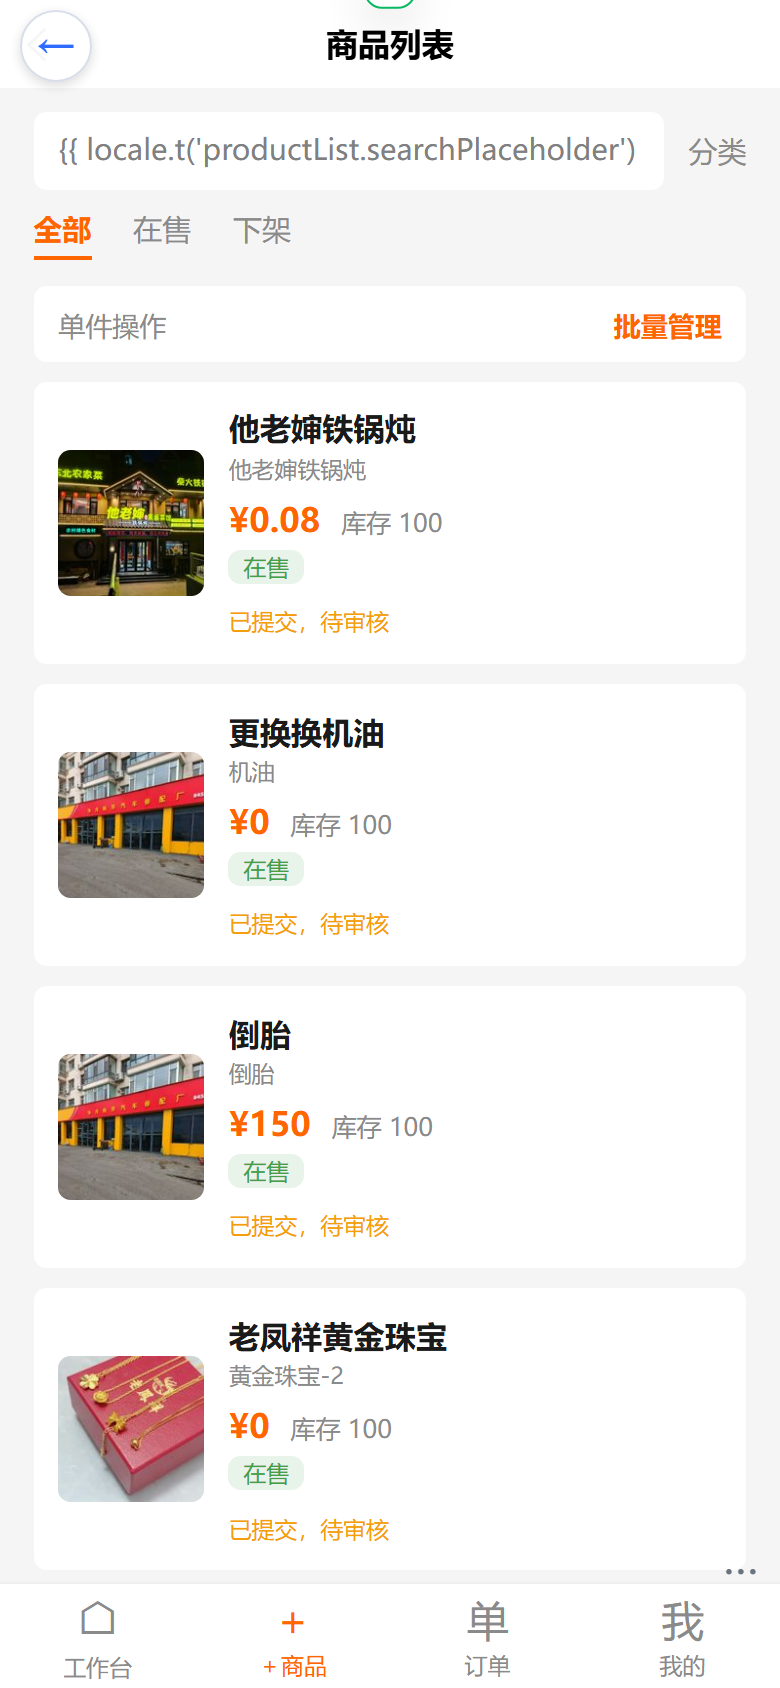
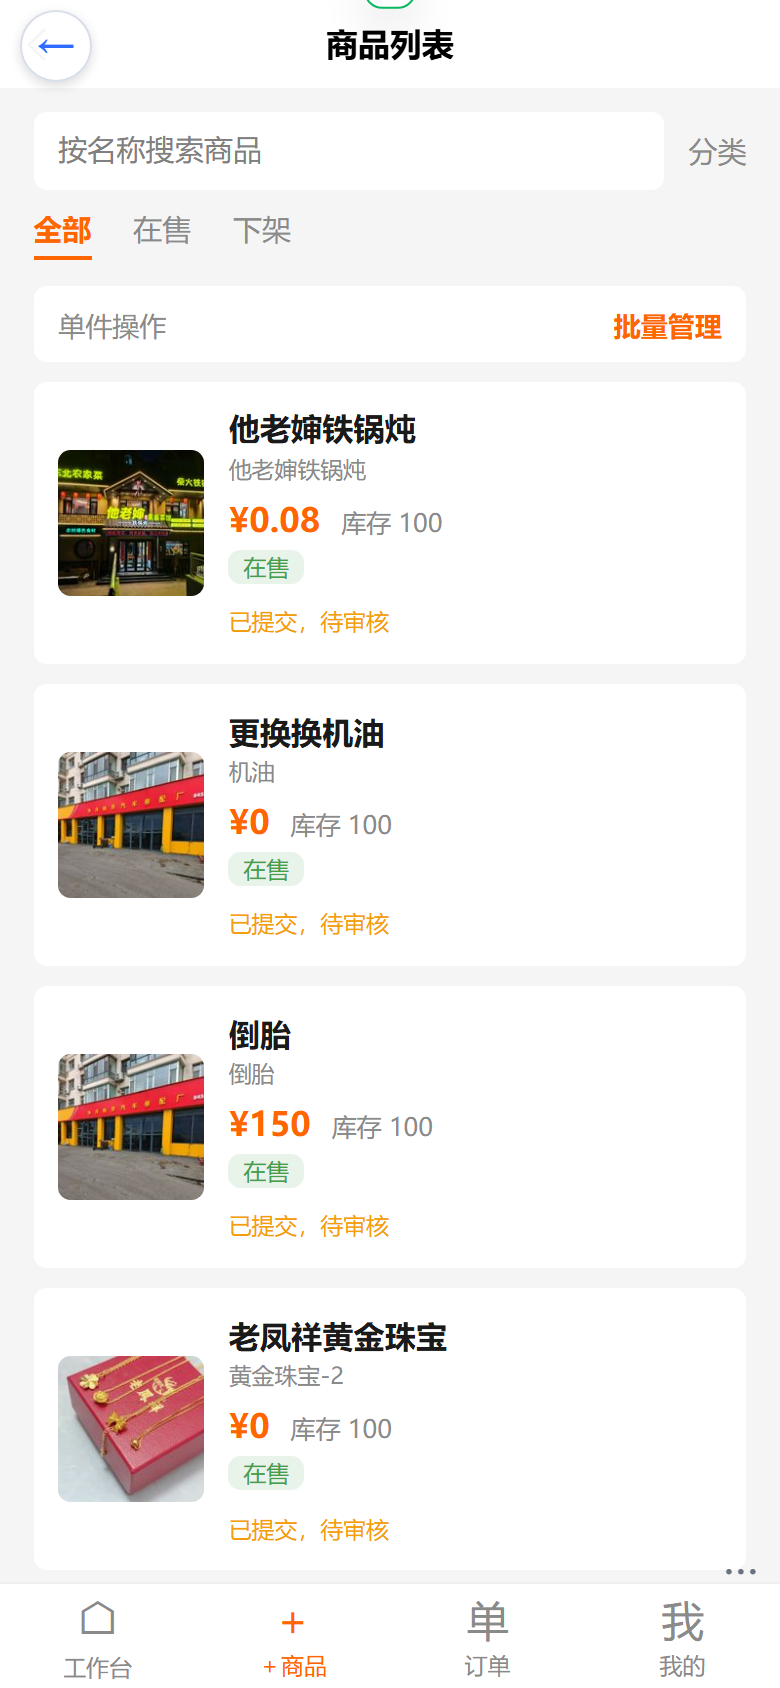
fix(web-admin): 商品列表搜索框 placeholder 显示 i18n key，改为动态绑定

Changed region(s): [[0.0615, 0.0616, 0.4615, 0.1232], [0.4923, 0.0616, 0.8, 0.0924]]

diff --git a/web-admin/src/pages/product/list/index.vue b/web-admin/src/pages/product/list/index.vue
@@ -4,7 +4,7 @@
       <input
         v-model="term"
         class="search"
-        placeholder="{{ locale.t('productList.searchPlaceholder') }}"
+        :placeholder="locale.t('productList.searchPlaceholder')"
         confirm-type="search"
         @confirm="load(0)"
       />
